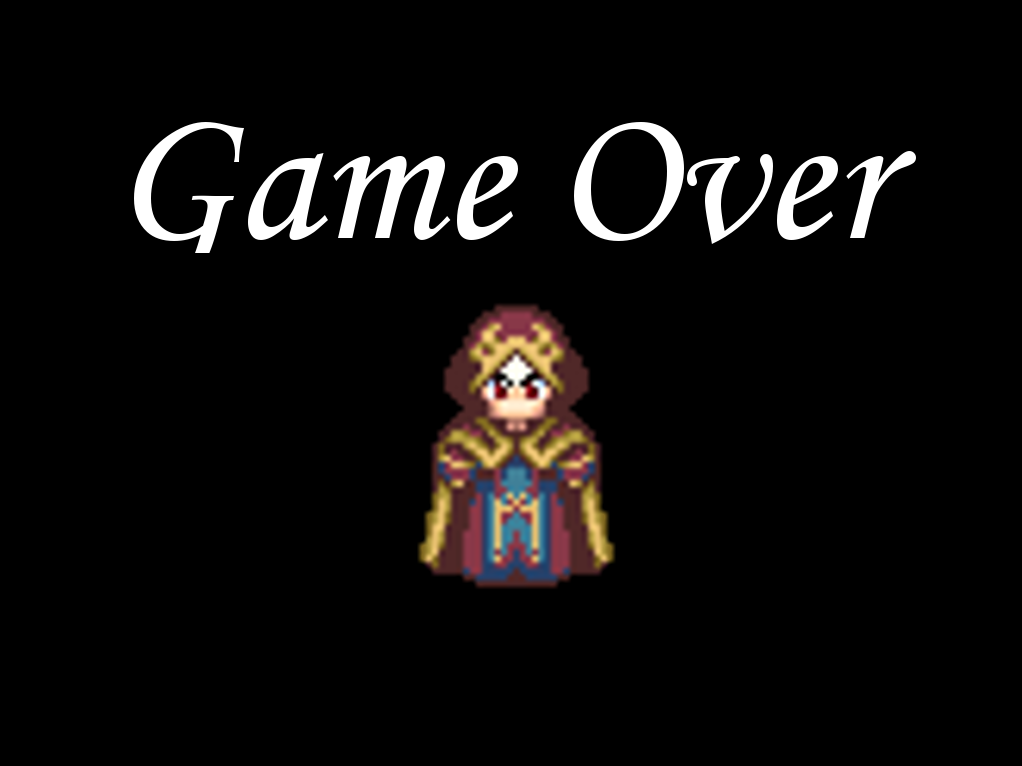
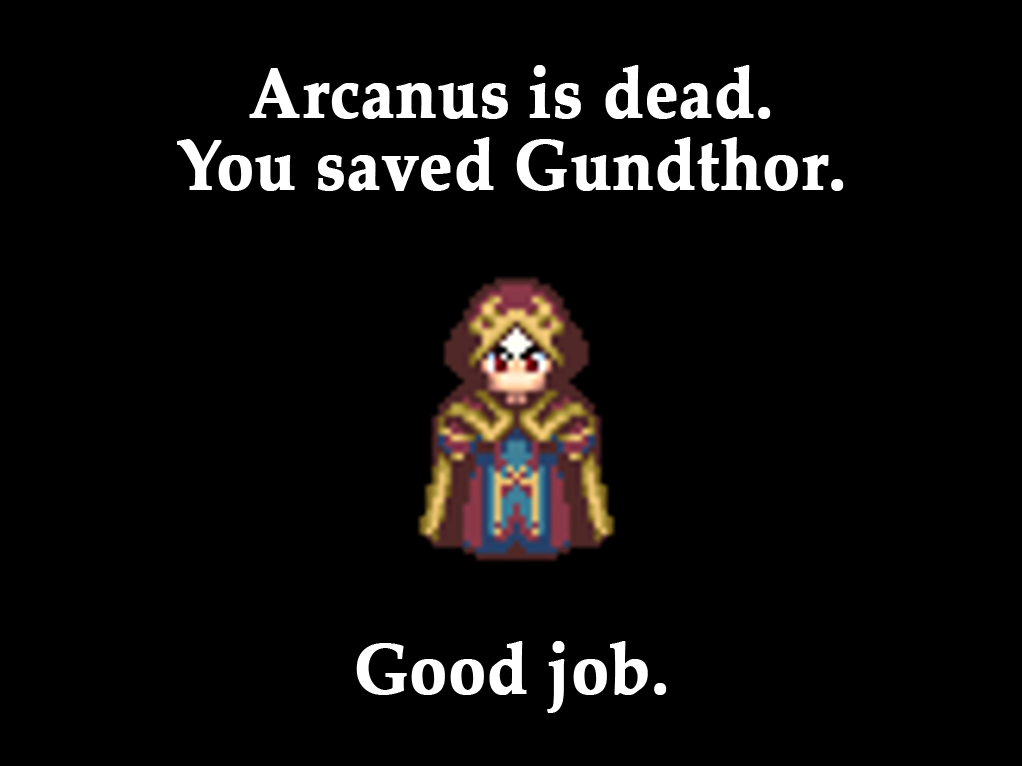
Write simple endgame

Changed region(s): [[0.1213, 0.0901, 0.91, 0.3303], [0.3943, 0.3603, 0.6067, 0.7807], [0.3337, 0.8407, 0.6673, 0.9308]]

diff --git a/src/com/timothyaveni/apcsfinal/client/PrimaryCallbackListener.java b/src/com/timothyaveni/apcsfinal/client/PrimaryCallbackListener.java
@@ -3,6 +3,7 @@ package com.timothyaveni.apcsfinal.client;
 import java.util.HashMap;
 
 import com.timothyaveni.apcsfinal.networking.AnimationTypeID;
+import com.timothyaveni.apcsfinal.networking.EntityType;
 import com.timothyaveni.apcsfinal.networking.EntityTypeID;
 import com.timothyaveni.apcsfinal.networking.packet.EntityDamagePacket;
 import com.timothyaveni.apcsfinal.networking.packet.EntityLocationPacket;
@@ -11,6 +12,7 @@ import com.timothyaveni.apcsfinal.networking.packet.NewClientAcknowledgementPack
 import com.timothyaveni.apcsfinal.networking.packet.NewEntityPacket;
 import com.timothyaveni.apcsfinal.networking.packet.NewProjectileAcknowledgePacket;
 import com.timothyaveni.apcsfinal.networking.packet.SimpleAttackPacket;
+import com.timothyaveni.apcsfinal.server.ArcanusEnemy;
 
 public class PrimaryCallbackListener extends ClientCallbackListener {
 
@@ -43,6 +45,11 @@ public class PrimaryCallbackListener extends ClientCallbackListener {
 
 		if (client.getEntityList().containsKey(entityId)) {
 			if (packet.getLocation().getWorldSectionId() == 0) {
+				if (client.getEntityList().get(entityId) instanceof ArcanusEnemy) {
+					client.setInGame(false);
+					client.getGameFrame().close();
+					client.getGameFrame().changeFrame(new EndgameFrame());
+				}
 				client.getEntityList().remove(entityId);
 			} else {
 				Entity entity = client.getEntityList().get(entityId);

diff --git a/src/com/timothyaveni/apcsfinal/client/EndgameFrame.java b/src/com/timothyaveni/apcsfinal/client/EndgameFrame.java
@@ -1,0 +1,41 @@
+package com.timothyaveni.apcsfinal.client;
+
+import java.awt.Dimension;
+import java.awt.Graphics;
+import java.awt.image.BufferedImage;
+import java.io.IOException;
+
+import javax.imageio.ImageIO;
+import javax.swing.JPanel;
+
+import com.timothyaveni.apcsfinal.client.gui.UsesClient;
+
+public class EndgameFrame extends JPanel implements UsesClient {
+
+	private static final long serialVersionUID = 6739658143466738909L;
+	private Client client;
+	
+	private BufferedImage image;
+	
+	public EndgameFrame() {
+		try {
+			this.image = ImageIO.read(FileReader.getFileFromResourceString("EndGame.png"));
+		} catch (IOException e) {
+			e.printStackTrace();
+		}
+		
+		this.setPreferredSize(new Dimension(Client.WIDTH, Client.HEIGHT));
+	}
+	
+	@Override
+	public void paintComponent(Graphics g) {
+		super.paintComponent(g);
+		g.drawImage(image, 0, 0, null);
+	}
+	
+	@Override
+	public void setClient(Client client) {
+		this.client = client;
+	}
+
+}

diff --git a/src/com/timothyaveni/apcsfinal/client/gui/MapCanvas.java b/src/com/timothyaveni/apcsfinal/client/gui/MapCanvas.java
@@ -38,6 +38,8 @@ public class MapCanvas extends Canvas implements UsesClient {
 		Graphics g;
 		do {
 			do {
+				if (!client.isInGame())
+					return;
 				g = bs.getDrawGraphics();
 
 				Location playerLocation = client.getPlayer().getLocation();

diff --git a/src/com/timothyaveni/apcsfinal/client/Client.java b/src/com/timothyaveni/apcsfinal/client/Client.java
@@ -213,5 +213,5 @@ public class Client {
 	public List<EnvironmentAnimation> getEnvironmentAnimations() {
 		return environmentAnimations;
 	}
-
+	
 }
